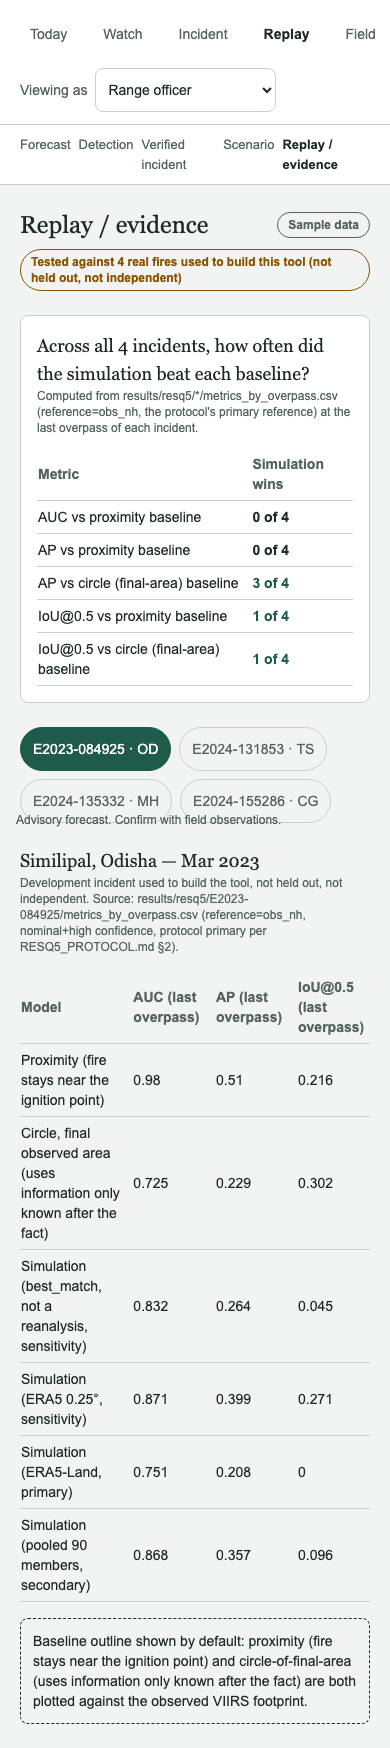
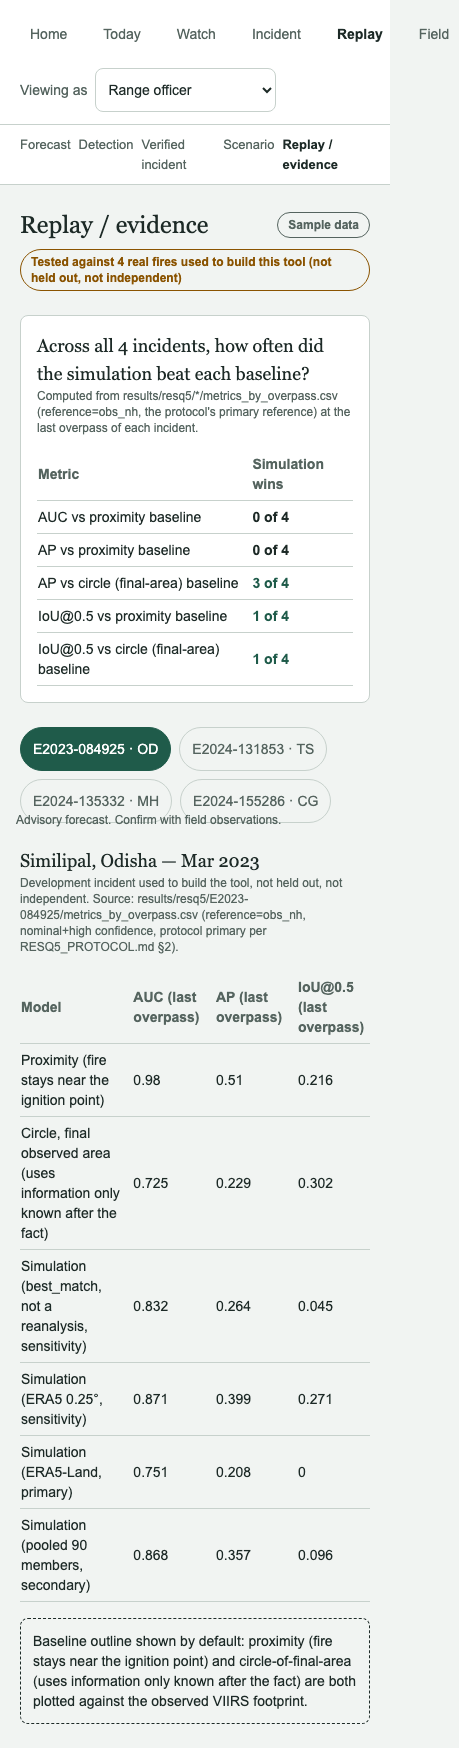
RESQ redesign Phase 2: build real landing page (Direction A), 22/22 tests pass
User picked Direction A (calm, map-first) over the animated Direction B.
Builds frontend/src/redesign/pages/LandingPage.tsx as a real component
(not the static wireframe) reusing docs/redesign/05_landing_page.md's
copy verbatim and the shared design tokens: single fade-in on load, no
scroll-triggered animation, flat bordered map placeholder with a visible
SampleDataBadge, the three-tool card row, and the "what RESQ refuses to
claim" list.

Mounted at /redesign (root) via RedesignRoot, which now receives App.tsx's
existing `go()` pushState navigator instead of doing full-page <a href>
reloads, so in-app navigation matches the legacy app's behavior.

Two real a11y issues found by the test suite and fixed:
- color-contrast: the subhead's --rq-ink-muted was flagged at 3.16:1 —
  turned out to be the axe scan running mid-fade-in (opacity-interpolated
  color), not a real contrast defect (final-state contrast is 6.22:1);
  fixed by waiting for the fade-in to settle before scanning, in the test.
- heading-order: the three tool cards used <h3> directly after <h1> with
  no <h2>, which axe correctly flags; changed to <h2> (matching the
  "What RESQ refuses to claim" heading already at that level).

frontend/tests/redesign.spec.ts now covers 6 screens (landing + the
previous 5); 22/22 passing.

diff --git a/frontend/src/redesign/pages/LandingPage.tsx b/frontend/src/redesign/pages/LandingPage.tsx
@@ -1,0 +1,65 @@
+import { SampleDataBadge } from '../components/primitives';
+
+/** Direction A — calm, map-first (user's Gate 2 pick over the animated Direction B).
+ *  Motion is a single fade-in on load only; no scroll-triggered animation, per the
+ *  Gate 1 amendment restricting motion-forward treatment to this page alone, and the
+ *  user's own choice of the calmer of the two directions. */
+export function LandingPage({ go }: { go: (path: string) => void }) {
+  return (
+    <div className="animate-[fadeUp_0.6s_ease-out_0.1s_both] bg-sheet">
+      <style>{'@keyframes fadeUp { from { opacity: 0; transform: translateY(12px); } to { opacity: 1; transform: translateY(0); } }'}</style>
+
+      <section className="mx-auto max-w-[1040px] px-10 pb-16 pt-24 text-center">
+        <h1 className="mx-auto max-w-[780px] font-serif text-4xl leading-tight md:text-5xl">Three tools, not one.</h1>
+        <p className="mx-auto mt-5 max-w-xl text-base text-ink-muted md:text-lg">
+          A daily rank of forest cells for tomorrow. A queue for satellite and field detections. A scenario — only
+          after a human confirms a fire — shown next to a simple guess it did not beat.
+        </p>
+        <div className="mt-8 flex flex-wrap justify-center gap-3">
+          <button
+            onClick={() => go('/redesign/today')}
+            className="rounded-rq border border-canopy bg-canopy px-5 py-2.5 text-sm font-semibold text-white hover:bg-canopy-deep"
+          >
+            See today's ranking
+          </button>
+          <button
+            onClick={() => go('/redesign/replay')}
+            className="rounded-rq border border-canopy px-5 py-2.5 text-sm font-semibold text-canopy hover:bg-canopy/10"
+          >
+            See the replay evidence
+          </button>
+        </div>
+      </section>
+
+      <section className="mx-auto mb-20 max-w-[1040px] px-10">
+        <div className="relative flex min-h-[320px] flex-col items-center justify-center gap-3 rounded-xl border border-contour bg-paper text-sm text-ink-muted">
+          <SampleDataBadge note="Archived replay, not real-time." />
+          <p>Interactive ranked-cell map (pan/zoom) — rendered on the Today screen</p>
+        </div>
+      </section>
+
+      <section className="mx-auto mb-20 grid max-w-[1040px] grid-cols-1 gap-6 px-10 md:grid-cols-3">
+        {[
+          { num: '01', title: 'Forecast', body: "Tomorrow's patrol priority, ranked. Never a prediction, never 24/48h." },
+          { num: '02', title: 'Detection', body: 'Satellite and field reports, triaged by a person before anything counts as confirmed.' },
+          { num: '03', title: 'Scenario', body: 'Only after verification: an uncalibrated spread guess, shown beside the baseline it did not beat.' },
+        ].map((card) => (
+          <div key={card.num} className="rounded-xl border border-contour p-6">
+            <div className="mb-2.5 font-serif text-xs font-bold text-canopy">{card.num}</div>
+            <h2 className="mb-2 text-base font-semibold">{card.title}</h2>
+            <p className="text-sm text-ink-muted">{card.body}</p>
+          </div>
+        ))}
+      </section>
+
+      <section className="mx-auto mb-24 max-w-[680px] px-10 text-center">
+        <h2 className="mb-4 text-xl font-semibold">What RESQ refuses to claim</h2>
+        <ul className="inline-block list-disc space-y-2 pl-5 text-left text-sm text-ink-muted">
+          <li>Not "AI-powered." Not a prediction. Not calibrated.</li>
+          <li>The simulation did not beat a simple proximity guess on AUC/AP in the fires tested.</li>
+          <li>The four replay incidents built this tool — they are not a held-out test.</li>
+        </ul>
+      </section>
+    </div>
+  );
+}

diff --git a/frontend/src/redesign/RedesignRoot.tsx b/frontend/src/redesign/RedesignRoot.tsx
@@ -1,5 +1,6 @@
 import { useState } from 'react';
 import { QueryClient, QueryClientProvider } from '@tanstack/react-query';
+import { LandingPage } from './pages/LandingPage';
 import { TodayPage } from './pages/TodayPage';
 import { WatchPage } from './pages/WatchPage';
 import { ReplayPage } from './pages/ReplayPage';
@@ -12,6 +13,7 @@ import './styles/index.css';
 const queryClient = new QueryClient();
 
 const NAV: { path: string; label: string }[] = [
+  { path: '/redesign', label: 'Home' },
   { path: '/redesign/today', label: 'Today' },
   { path: '/redesign/watch', label: 'Watch' },
   { path: '/redesign/incident/E2023-084925', label: 'Incident' },
@@ -21,11 +23,12 @@ const NAV: { path: string; label: string }[] = [
 
 /** Entry point for the redesign-v2 surfaces, mounted at /redesign/* in the existing App shell
  *  (frontend/src/app/App.tsx) without touching the legacy routes. See docs/redesign/04_information_architecture.md. */
-export function RedesignRoot({ path }: { path: string }) {
+export function RedesignRoot({ path, go }: { path: string; go: (next: string) => void }) {
   const [role, setRole] = useState<Role>(() => readRole());
 
-  let body = <TodayPage />;
-  if (path === '/redesign/watch') body = <WatchPage />;
+  let body = <LandingPage go={go} />;
+  if (path === '/redesign/today') body = <TodayPage />;
+  else if (path === '/redesign/watch') body = <WatchPage />;
   else if (path === '/redesign/replay' || path.startsWith('/redesign/replay/')) body = <ReplayPage />;
   else if (path.startsWith('/redesign/incident/')) body = <IncidentPage incidentId={path.split('/').pop() || 'E2023-084925'} />;
   else if (path === '/redesign/field') body = <FieldPage />;
@@ -36,7 +39,12 @@ export function RedesignRoot({ path }: { path: string }) {
         <div className="flex flex-wrap items-center justify-between gap-3 border-b border-contour bg-sheet px-5 py-3">
           <nav aria-label="RESQ redesign navigation" className="flex gap-4 text-sm">
             {NAV.map((item) => (
-              <a key={item.path} href={item.path} className={path === item.path || (item.path.includes('incident') && path.startsWith('/redesign/incident')) ? 'font-bold text-ink' : 'text-ink-muted'}>
+              <a
+                key={item.path}
+                href={item.path}
+                onClick={(event) => { event.preventDefault(); go(item.path); }}
+                className={path === item.path || (item.path.includes('incident') && path.startsWith('/redesign/incident')) ? 'font-bold text-ink' : 'text-ink-muted'}
+              >
                 {item.label}
               </a>
             ))}

diff --git a/frontend/src/app/App.tsx b/frontend/src/app/App.tsx
@@ -50,7 +50,7 @@ export function App() {
   useEffect(() => { const onOnline = () => setOnline(true); const onOffline = () => setOnline(false); window.addEventListener('online', onOnline); window.addEventListener('offline', onOffline); return () => { window.removeEventListener('online', onOnline); window.removeEventListener('offline', onOffline); }; }, []);
   function go(next: string) { history.pushState({}, '', next); setPath(next); }
 
-  if (path.startsWith('/redesign')) return <RedesignRoot path={path} />;
+  if (path.startsWith('/redesign')) return <RedesignRoot path={path} go={go} />;
   if (['/403', '/404', '/500', '/offline', '/maintenance', '/session-expired'].includes(path)) return <SystemPage path={path} go={go} />;
   if (path === '/login' || (path.startsWith('/app') && !user)) return <Login done={setUser} go={go} />;
   if (!user && path === '/request-access') return <RequestAccessPage go={go} />;

diff --git a/frontend/tests/redesign.spec.ts b/frontend/tests/redesign.spec.ts
@@ -2,6 +2,7 @@ import { test, expect, type Page } from '@playwright/test';
 import AxeBuilder from '@axe-core/playwright';
 
 const SCREENS: { path: string; name: string }[] = [
+  { path: '/redesign', name: 'landing' },
   { path: '/redesign/today', name: 'today' },
   { path: '/redesign/watch', name: 'watch' },
   { path: '/redesign/incident/E2023-084925', name: 'incident' },
@@ -18,6 +19,7 @@ for (const screen of SCREENS) {
     test(`${screen.name}: sample-data badge, no "live" wording, axe clean`, async ({ page }) => {
       await page.goto(screen.path);
       await page.waitForSelector('[data-rq-app]');
+      await page.waitForTimeout(700); // let the landing page's one-time fade-in settle before scanning contrast
       await expect(page.getByTestId('sample-data-badge').first()).toBeVisible();
 
       const text = await textOf(page);
